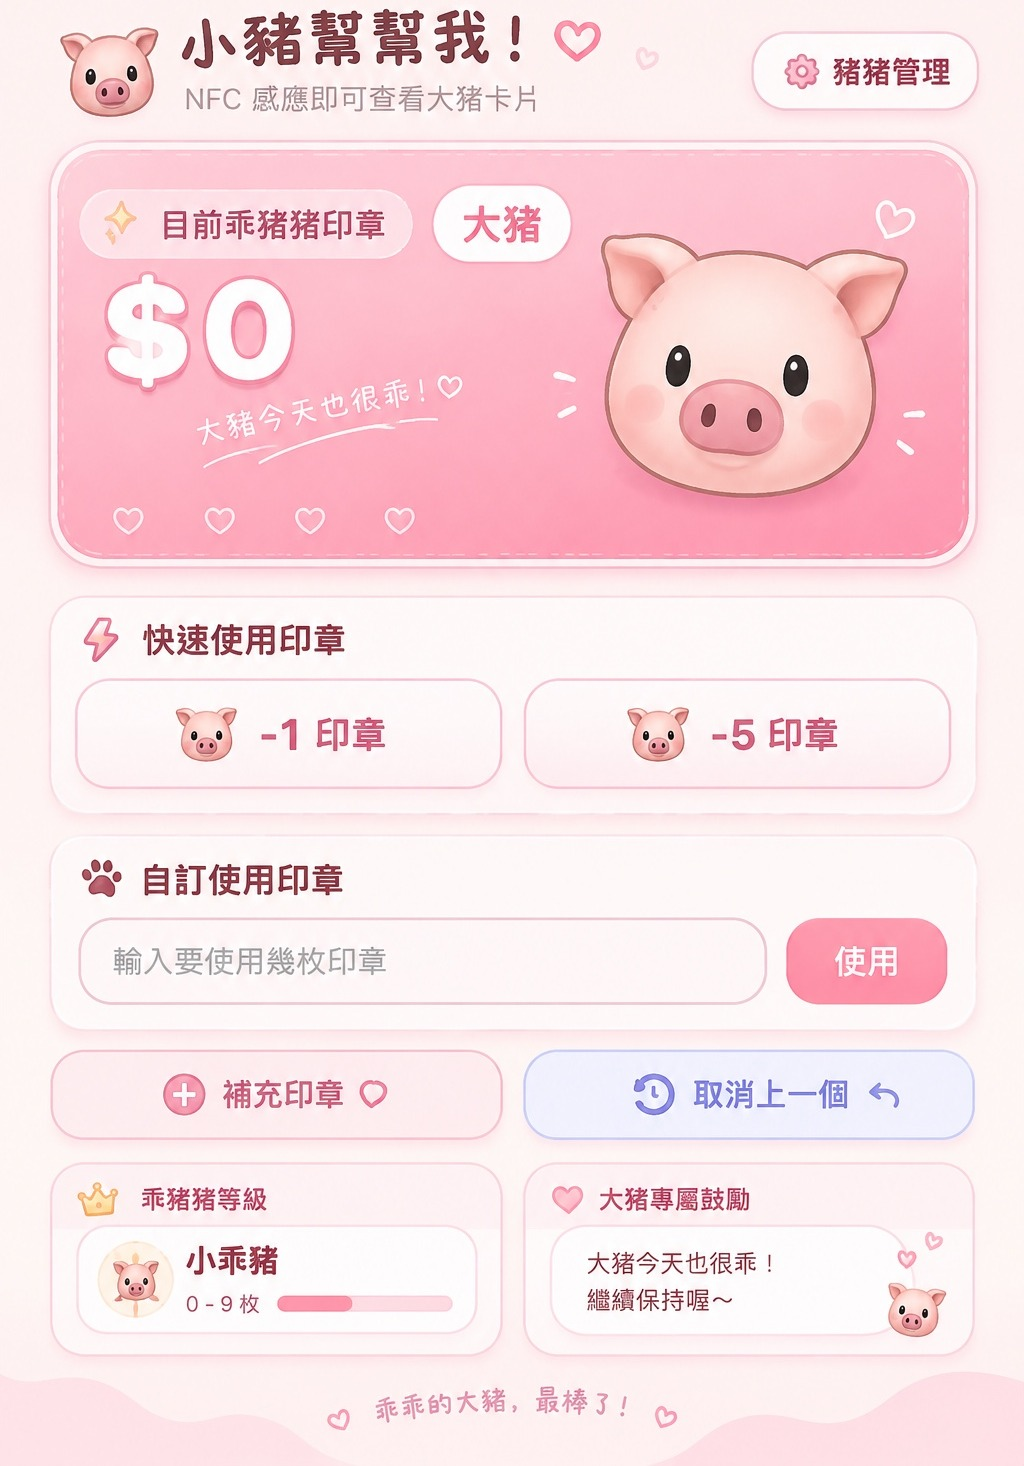
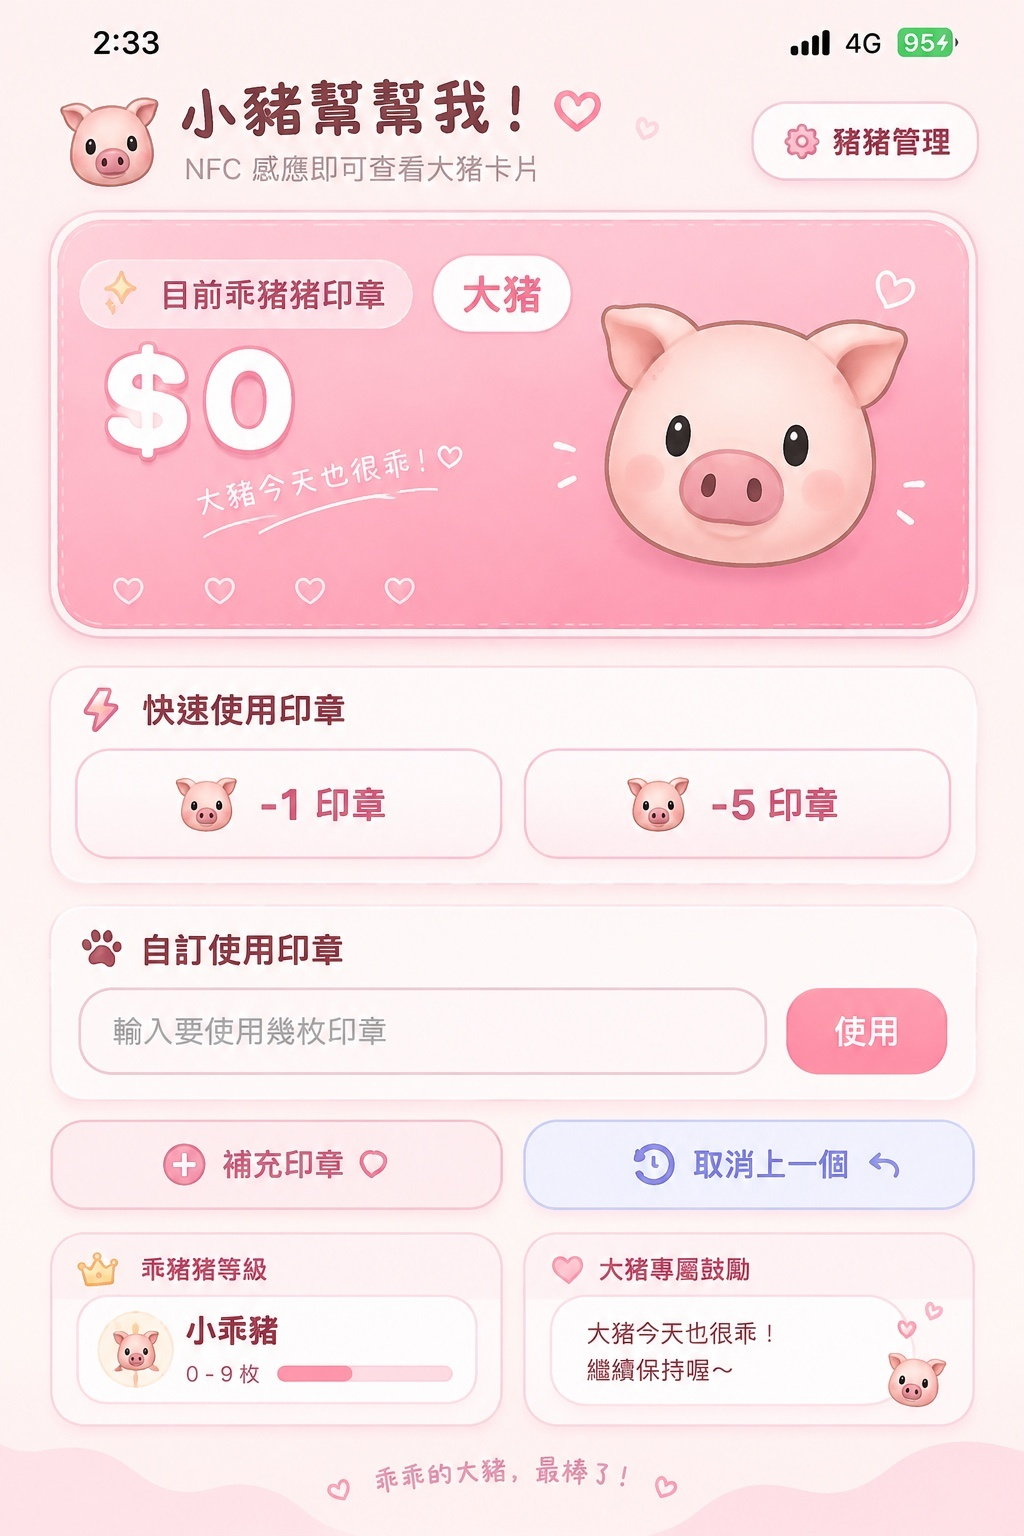
Add files via upload

diff --git a/index.html b/index.html
@@ -6,39 +6,115 @@
 <meta name="theme-color" content="#fff1f5">
 <title>小豬幫幫我！</title>
 <style>
-*{box-sizing:border-box}html,body{margin:0;min-height:100%;background:#fff1f5;font-family:-apple-system,BlinkMacSystemFont,"Noto Sans TC","PingFang TC",sans-serif}body{display:flex;justify-content:center}.page{position:relative;width:min(100vw,430px);aspect-ratio:1024/1466;background:#fff1f5 url("mockup.jpg") center top/100% 100% no-repeat;overflow:hidden}.tap{position:absolute;border:0;background:transparent;padding:0;cursor:pointer}.manage{left:73.2%;top:2.2%;width:23.2%;height:6.2%}.quick1{left:7.4%;top:36.8%;width:42%;height:8.2%}.quick5{left:51.2%;top:36.8%;width:42%;height:8.2%}.customInput{position:absolute;left:8.1%;top:51.8%;width:66.5%;height:6.1%;border:0;outline:0;background:rgba(255,255,255,.02);font-size:clamp(13px,4vw,17px);color:#6b3947;padding:0 14px;border-radius:18px}.customInput::placeholder{color:#aaa;opacity:1}.useBtn{left:76.7%;top:51.8%;width:16.7%;height:6.1%}.addBtn{left:6.8%;top:61.0%;width:43%;height:6.2%}.undoBtn{left:51.2%;top:61.0%;width:43%;height:6.2%}.levelArea,.encourageArea{pointer-events:none}.balanceCover{position:absolute;left:9%;top:24.2%;width:27%;height:9.2%;background:linear-gradient(145deg,#ffb9ca,#ff9eb8);border-radius:8px;opacity:.98}.balance{position:absolute;left:10.2%;top:24.4%;font-size:clamp(34px,10vw,49px);font-weight:950;color:#fff;text-shadow:0 3px 0 rgba(185,78,109,.18);z-index:2}.toast{position:fixed;left:50%;bottom:24px;transform:translateX(-50%) translateY(15px);background:#593d45;color:#fff;padding:11px 16px;border-radius:14px;font-size:13px;opacity:0;pointer-events:none;transition:.2s;z-index:20;white-space:nowrap}.toast.show{opacity:1;transform:translateX(-50%) translateY(0)}.modal{display:none;position:fixed;inset:0;background:rgba(107,57,71,.32);backdrop-filter:blur(5px);align-items:flex-end;justify-content:center;padding:14px;z-index:30}.modal.show{display:flex}.sheet{width:min(430px,100%);background:linear-gradient(#fffafb,#fff);border:2px solid #f8dce5;border-radius:30px;padding:22px;box-shadow:0 -10px 35px rgba(62,40,53,.15)}.sheet h2{margin:4px 0 6px;color:#6b3947}.sheet p{margin:0 0 14px;color:#9b6573;font-size:13px}.input{width:100%;padding:14px;border:2px solid #f0d5de;border-radius:17px;font-size:18px;outline:0;background:#fffafb}.confirm,.cancel{width:100%;border:0;border-radius:16px;padding:14px;font-size:16px;font-weight:900;margin-top:10px}.confirm{background:#ff6f98;color:#fff}.cancel{background:#f7eef1;color:#593d45}.adminTools{display:none;position:absolute;left:6.8%;top:61%;width:86.5%;height:6.2%;z-index:5}.adminTools.show{display:block}.hint{position:absolute;left:6%;top:68%;width:88%;text-align:center;font-size:10px;color:#9b6573;opacity:.55}
+*{box-sizing:border-box}
+html,body{margin:0;min-height:100%;background:#fff1f5;font-family:-apple-system,BlinkMacSystemFont,"Noto Sans TC","PingFang TC",sans-serif}
+body{display:flex;justify-content:center}
+.page{position:relative;width:min(100vw,430px);aspect-ratio:1024/1536;background:#fff1f5 url("mockup.jpg") center top/100% 100% no-repeat;overflow:hidden}
+.tap{position:absolute;border:0;background:transparent;padding:0;cursor:pointer;-webkit-tap-highlight-color:transparent}
+.tap:focus-visible{outline:3px solid rgba(235,91,135,.65);outline-offset:2px;border-radius:18px}
+.manage{left:73%;top:6.3%;width:24%;height:5.8%}
+.quick1{left:7.2%;top:48.6%;width:42%;height:7.2%}
+.quick5{left:51.1%;top:48.6%;width:42%;height:7.2%}
+.customInput{position:absolute;left:8%;top:64.25%;width:66.2%;height:5.7%;border:0;outline:0;background:rgba(255,255,255,.72);font-size:clamp(14px,4vw,17px);font-weight:600;color:#6b3947;padding:0 14px;border-radius:18px;text-align:left}
+.customInput::placeholder{color:#aaa;opacity:1}
+.useBtn{left:76.8%;top:64.25%;width:16.2%;height:5.7%}
+.addBtn{left:6.8%;top:72.8%;width:43%;height:5.9%}
+.undoBtn{left:51.1%;top:72.8%;width:43%;height:5.9%}
+/* Cover only the static $0 in the reference image so the real balance can update. */
+.balanceCover{position:absolute;left:7%;top:21.5%;width:30%;height:10%;background:linear-gradient(145deg,#ffb6c8,#ff9eb8);border-radius:12px;z-index:2}
+.balance{position:absolute;left:9.5%;top:22%;width:28%;font-size:clamp(42px,11vw,58px);line-height:1;font-weight:950;color:#fff;text-shadow:0 3px 0 rgba(185,78,109,.18);z-index:3;white-space:nowrap}
+.levelDynamic{position:absolute;left:17.8%;top:85.4%;width:28%;z-index:3;color:#6b3947;text-align:left;pointer-events:none}
+.levelDynamic .name{font-size:clamp(16px,4.2vw,20px);font-weight:900;line-height:1.2}
+.levelDynamic .range{font-size:clamp(11px,3vw,14px);margin-top:5px;color:#8f5d6b}
+.encDynamic{position:absolute;left:58%;top:85.8%;width:34%;z-index:3;color:#6b3947;pointer-events:none;font-size:clamp(12px,3.1vw,15px);line-height:1.45;font-weight:700}
+.toast{position:fixed;left:50%;bottom:24px;transform:translateX(-50%) translateY(15px);background:#593d45;color:#fff;padding:11px 16px;border-radius:14px;font-size:13px;opacity:0;pointer-events:none;transition:.2s;z-index:50;white-space:nowrap}
+.toast.show{opacity:1;transform:translateX(-50%) translateY(0)}
+.modal{display:none;position:fixed;inset:0;background:rgba(107,57,71,.32);backdrop-filter:blur(5px);align-items:flex-end;justify-content:center;padding:14px;z-index:60}
+.modal.show{display:flex}
+.sheet{width:min(430px,100%);background:linear-gradient(#fffafb,#fff);border:2px solid #f8dce5;border-radius:30px;padding:22px;box-shadow:0 -10px 35px rgba(62,40,53,.15)}
+.sheet h2{margin:4px 0 6px;color:#6b3947}.sheet p{margin:0 0 14px;color:#9b6573;font-size:13px}
+.input{width:100%;padding:14px;border:2px solid #f0d5de;border-radius:17px;font-size:18px;outline:0;background:#fffafb}
+.confirm,.cancel{width:100%;border:0;border-radius:16px;padding:14px;font-size:16px;font-weight:900;margin-top:10px}.confirm{background:#ff6f98;color:#fff}.cancel{background:#f7eef1;color:#593d45}
 @media(min-width:700px){body{padding:20px 0}.page{box-shadow:0 20px 60px rgba(150,80,100,.12);border-radius:28px}}
 </style>
 </head>
 <body>
-<div class="page" id="page">
-  <button class="tap manage" onclick="openPin()" aria-label="豬豬管理"></button>
-  <button class="tap quick1" onclick="spend(1)" aria-label="使用1枚印章"></button>
-  <button class="tap quick5" onclick="spend(5)" aria-label="使用5枚印章"></button>
+<div class="page" id="page" aria-label="小豬幫幫我">
+  <button class="tap manage" id="manage" aria-label="豬豬管理" type="button"></button>
+  <button class="tap quick1" id="quick1" aria-label="使用1枚印章" type="button"></button>
+  <button class="tap quick5" id="quick5" aria-label="使用5枚印章" type="button"></button>
   <input id="publicSpend" class="customInput" type="number" min="1" step="1" inputmode="numeric" placeholder="輸入要使用幾枚印章" aria-label="輸入要使用幾枚印章">
-  <button class="tap useBtn" onclick="publicSpend()" aria-label="使用印章"></button>
-  <button class="tap addBtn" onclick="openMoney('add')" aria-label="補充印章"></button>
-  <button class="tap undoBtn" onclick="undo()" aria-label="取消上一個"></button>
-  <div class="balanceCover"></div><div class="balance" id="balance">850</div>
+  <button class="tap useBtn" id="useBtn" aria-label="使用印章" type="button"></button>
+  <button class="tap addBtn" id="addBtn" aria-label="補充印章" type="button"></button>
+  <button class="tap undoBtn" id="undoBtn" aria-label="取消上一個" type="button"></button>
+
+  <div class="balanceCover" aria-hidden="true"></div>
+  <div class="balance" id="balance" aria-live="polite">850</div>
+  <div class="levelDynamic" aria-live="polite"><div class="name" id="levelName">🐣 小乖豬</div><div class="range" id="levelRange">0 - 9 枚</div></div>
+  <div class="encDynamic" id="encouragement" aria-live="polite">大豬今天也很乖！<br>繼續保持喔～</div>
 </div>
-<div class="toast" id="toast"></div>
-<div class="modal" id="modal"><div class="sheet"><h2 id="mt">🔐 豬豬管理</h2><p id="mp">請輸入管理密碼</p><input id="input" class="input" type="password" placeholder="輸入密碼"><button class="confirm" onclick="confirmModal()">確認</button><button class="cancel" onclick="closeModal()">取消</button></div></div>
+<div class="toast" id="toast" role="status"></div>
+<div class="modal" id="modal" role="dialog" aria-modal="true" aria-labelledby="mt">
+  <div class="sheet">
+    <h2 id="mt">🔐 豬豬管理</h2>
+    <p id="mp">請輸入管理密碼</p>
+    <input id="modalInput" class="input" type="password" placeholder="輸入密碼" autocomplete="off">
+    <button class="confirm" id="confirm" type="button">確認</button>
+    <button class="cancel" id="cancel" type="button">取消</button>
+  </div>
+</div>
 <script>
-const card=new URLSearchParams(location.search).get('card')||'001';
-const key='pig_'+card;
-const ADMIN_PIN='smallpig0926';
-let data=JSON.parse(localStorage.getItem(key)||'null')||{name:'大豬',balance:850,history:[]};
-let mode='pin',moneyMode='add';
-function save(){localStorage.setItem(key,JSON.stringify(data));render()}
-function render(){document.getElementById('balance').textContent=Number(data.balance).toLocaleString('zh-TW')}
-function toast(t){const e=document.getElementById('toast');e.textContent=t;e.classList.add('show');setTimeout(()=>e.classList.remove('show'),1600)}
-function spend(n){if(n>data.balance)return toast('乖豬豬印章不夠喔 🐷');data.history.push(data.balance);data.balance-=n;save();toast('已使用 '+n+' 枚印章 🐷')}
-function publicSpend(){const e=document.getElementById('publicSpend');const n=Math.floor(Number(e.value));if(!n||n<1)return toast('請輸入要使用的印章數');if(n>data.balance)return toast('乖豬豬印章不夠喔 🐷');data.history.push(data.balance);data.balance-=n;save();e.value='';toast('已使用 '+n+' 枚印章 🐷')}
-function undo(){if(!data.history.length)return toast('目前沒有可以取消的操作');data.balance=data.history.pop();save();toast('已取消上一個操作 ↩')}
-function openPin(){mode='pin';document.getElementById('mt').textContent='🔐 豬豬管理';document.getElementById('mp').textContent='請輸入管理密碼';const i=document.getElementById('input');i.type='password';i.value='';i.placeholder='輸入密碼';document.getElementById('modal').classList.add('show');setTimeout(()=>i.focus(),80)}
-function openMoney(m){moneyMode=m;mode='money';document.getElementById('mt').textContent=m==='add'?'💗 補充印章':'🐾 使用印章';document.getElementById('mp').textContent=m==='add'?'輸入要補充的印章數':'輸入要使用的印章數';const i=document.getElementById('input');i.type='number';i.inputMode='numeric';i.value='';i.placeholder=m==='add'?'輸入要補充幾枚印章':'輸入要使用幾枚印章';document.getElementById('modal').classList.add('show');setTimeout(()=>i.focus(),80)}
-function closeModal(){document.getElementById('modal').classList.remove('show')}
-function confirmModal(){const i=document.getElementById('input');if(mode==='pin'){if(i.value===ADMIN_PIN){closeModal();toast('管理驗證成功 🔓');openMoney('add')}else toast('密碼錯誤，再試一次');return}const n=Math.floor(Number(i.value));if(!n||n<1)return toast('請輸入正確數量');if(moneyMode==='spend'&&n>data.balance)return toast('乖豬豬印章不夠喔 🐷');if(moneyMode==='add'){data.history.push(data.balance);data.balance+=n}else{data.history.push(data.balance);data.balance-=n}save();closeModal();toast(moneyMode==='add'?'印章補充成功 💗':'印章使用成功 🐷')}
-render();
+(function(){
+  const card=new URLSearchParams(location.search).get('card')||'001';
+  const key='pig_'+card;
+  const ADMIN_PIN='smallpig0926';
+  const encouragements=['🐷 大豬今天也很乖！','💕 大豬乖乖，繼續保持！','🎀 這枚印章是給乖乖的大豬！','✨ 大豬表現得很好喔！','🐽 乖豬豬認證成功！','💗 大豬又完成一件乖乖的事了！'];
+  let data;
+  try{data=JSON.parse(localStorage.getItem(key)||'null')}catch(e){data=null}
+  if(!data || typeof data.balance!=='number') data={name:'大豬',balance:850,history:[]};
+  if(!Array.isArray(data.history)) data.history=[];
+  let mode='pin',moneyMode='add';
+
+  const $=id=>document.getElementById(id);
+  function save(){localStorage.setItem(key,JSON.stringify(data));render()}
+  function level(n){if(n>=100)return ['💖 最最乖大豬','100+ 枚'];if(n>=50)return ['👑 無敵乖豬','50 - 99 枚'];if(n>=30)return ['🎀 超級乖豬','30 - 49 枚'];if(n>=10)return ['🐷 乖豬豬','10 - 29 枚'];return ['🐣 小乖豬','0 - 9 枚']}
+  function render(){
+    const n=Math.max(0,Math.floor(Number(data.balance)||0));
+    $('balance').textContent=n.toLocaleString('zh-TW');
+    const lv=level(n); $('levelName').textContent=lv[0]; $('levelRange').textContent=lv[1];
+  }
+  function toast(t){const e=$('toast');e.textContent=t;e.classList.add('show');clearTimeout(window.__toast);window.__toast=setTimeout(()=>e.classList.remove('show'),1600)}
+  function spend(n){n=Math.floor(Number(n));if(!Number.isFinite(n)||n<1)return;if(n>data.balance)return toast('乖豬豬印章不夠喔 🐷');data.history.push(data.balance);data.balance-=n;save();$('encouragement').innerHTML=encouragements[Math.floor(Math.random()*encouragements.length)];toast('已使用 '+n+' 枚印章 🐷')}
+  function publicSpend(){const e=$('publicSpend');const n=Math.floor(Number(e.value));if(!Number.isFinite(n)||n<1)return toast('請輸入要使用的印章數');spend(n);if(n<=data.balance+n)e.value=''}
+  function undo(){if(!data.history.length)return toast('目前沒有可以取消的操作');data.balance=data.history.pop();save();toast('已取消上一個操作 ↩')}
+  function openPin(){mode='pin';$('mt').textContent='🔐 豬豬管理';$('mp').textContent='請輸入管理密碼';const i=$('modalInput');i.type='password';i.value='';i.placeholder='輸入密碼';$('modal').classList.add('show');setTimeout(()=>i.focus(),80)}
+  function openMoney(m){moneyMode=m;mode='money';$('mt').textContent=m==='add'?'💗 補充印章':'🐾 使用印章';$('mp').textContent=m==='add'?'輸入要補充的印章數':'輸入要使用的印章數';const i=$('modalInput');i.type='number';i.inputMode='numeric';i.value='';i.placeholder=m==='add'?'輸入要補充幾枚印章':'輸入要使用幾枚印章';$('modal').classList.add('show');setTimeout(()=>i.focus(),80)}
+  function closeModal(){$('modal').classList.remove('show')}
+  function confirmModal(){
+    const i=$('modalInput');
+    if(mode==='pin'){
+      if(i.value===ADMIN_PIN){closeModal();toast('管理驗證成功 🔓');openMoney('add')}
+      else toast('密碼錯誤，再試一次');
+      return;
+    }
+    const n=Math.floor(Number(i.value));
+    if(!Number.isFinite(n)||n<1)return toast('請輸入正確數量');
+    if(moneyMode==='spend'&&n>data.balance)return toast('乖豬豬印章不夠喔 🐷');
+    data.history.push(data.balance);data.balance += moneyMode==='add'?n:-n;save();closeModal();toast(moneyMode==='add'?'印章補充成功 💗':'印章使用成功 🐷');
+  }
+  $('manage').addEventListener('click',openPin);
+  $('quick1').addEventListener('click',()=>spend(1));
+  $('quick5').addEventListener('click',()=>spend(5));
+  $('useBtn').addEventListener('click',publicSpend);
+  $('publicSpend').addEventListener('keydown',e=>{if(e.key==='Enter')publicSpend()});
+  $('addBtn').addEventListener('click',()=>openPin());
+  $('undoBtn').addEventListener('click',undo);
+  $('confirm').addEventListener('click',confirmModal);
+  $('cancel').addEventListener('click',closeModal);
+  $('modal').addEventListener('click',e=>{if(e.target===$('modal'))closeModal()});
+  $('modalInput').addEventListener('keydown',e=>{if(e.key==='Enter')confirmModal();if(e.key==='Escape')closeModal()});
+  render();
+})();
 </script>
-</body></html>
+</body>
+</html>
